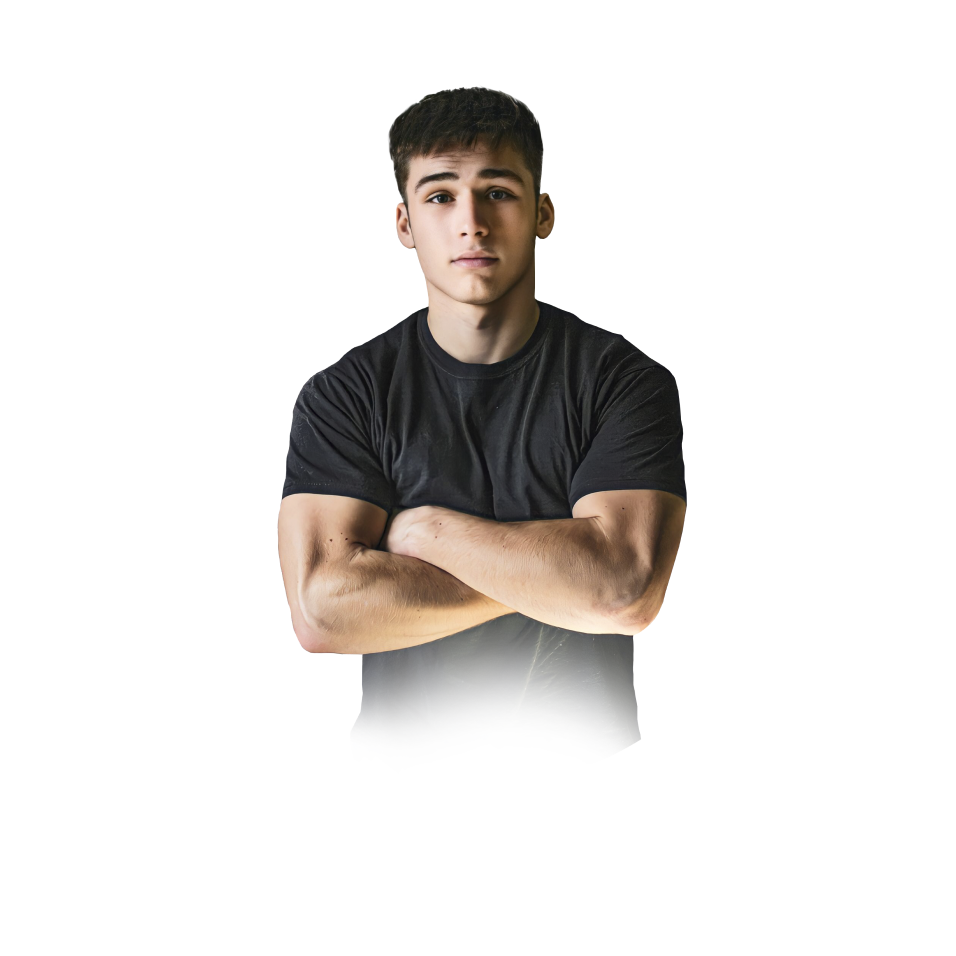
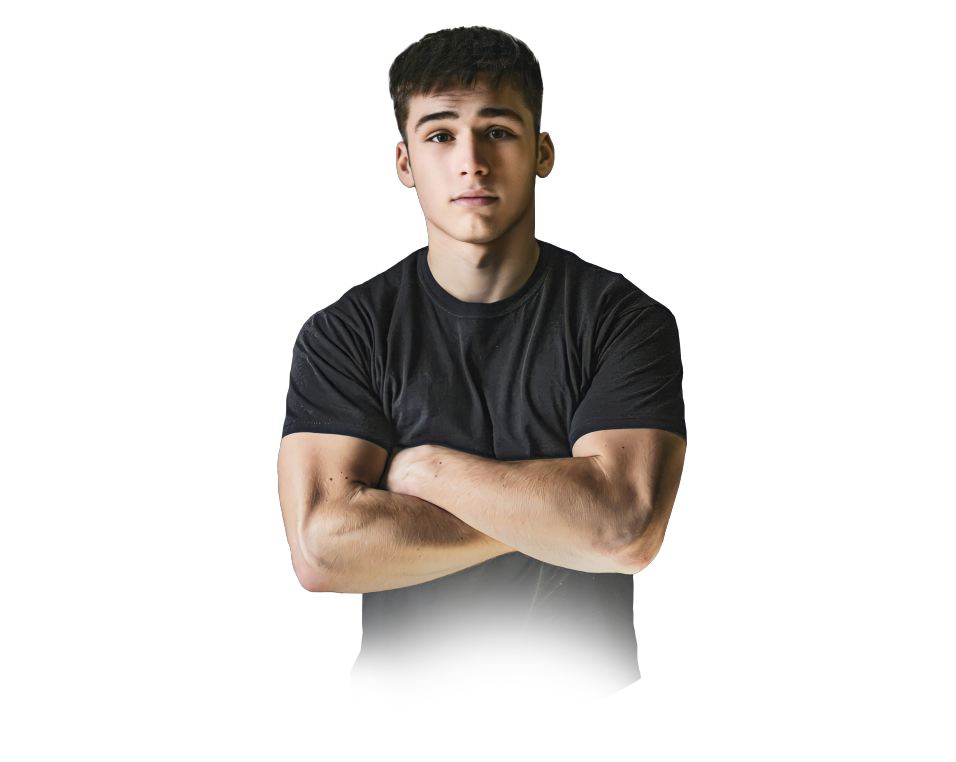
.

Changed region(s): [[0.273, 0.0302, 0.728, 0.9055], [0.5764, 0.3018, 0.6067, 0.332]]

diff --git a/src/App.vue b/src/App.vue
@@ -4,7 +4,8 @@ import Header from "@/components/Header.vue";
 
 <template>
   <Header />
-  <div id="hero" class="h-screen relative bg-primary mt-[100px]">
+  <!-- Hero Section -->
+  <div id="hero" class="h-[760px] relative bg-primary mt-[100px]">
     <img
       class="z-[2] absolute mx-auto -top-6 right-0 left-3"
       src="/hero.png"
@@ -29,8 +30,59 @@ import Header from "@/components/Header.vue";
     </div>
     dsa
   </div>
-  <div>
-    <img src="" alt="" />
+  <div class="pt-[350px] flex justify-center relative bg-primary">
+    <div class="absolute right-0 top-0 bg-primary">
+      <img class="mix-blend-screen" src="/hero_bottom.png" alt="" />
+    </div>
+    <div class="">
+      <ul class="text-[#E0E0E0] list-disc">
+        <li>СПОРТИВНИЙ БЛОГ В Tiktok ТА instagram</li>
+        <li>БЛИЗЬКО 6 РОКIВ У СПОРТI</li>
+        <li>КВАЛIФIКАЦIЯ ТРЕНЕРА ТА ДIЄТОЛОГА</li>
+        <li>Десятки гарних вIдгукIв та результатів</li>
+      </ul>
+    </div>
+  </div>
+
+  <!-- user stories -->
+  <div class="text-4xl bg-primary pt-28">
+    <div class="mb-9 text-white font-medium text-center">
+      ВПЛИВ
+      <span class="text-[#E5C140]">ТРЕНУВАНЬ</span>
+      <br />
+      ТА ЗДОРОВОГО ХАРЧУВАННЯ НА ЖИТТЯ ЛЮДИНИ
+    </div>
+    <div class="pt-20 mx-auto max-w-7xl">
+      <div id="stories" class="flex justify-center gap-x-9">
+        <div class="story">
+          <img src="/story_1.png" alt="" />
+          <div class="title">ГАРНА ФІЗИЧНА ФОРМА</div>
+          <div class="desc">
+            фізична активність і гарна форма сприяють кращому збереженню
+            енергії, покращенню когнітивних функцій і підвищенню продуктивності
+            у різних сферах життя.
+          </div>
+        </div>
+        <div class="story">
+          <img src="" alt="" />
+          <div class="title">ГАРНА ФІЗИЧНА ФОРМА</div>
+          <div class="desc">
+            фізична активність і гарна форма сприяють кращому збереженню
+            енергії, покращенню когнітивних функцій і підвищенню продуктивності
+            у різних сферах життя.
+          </div>
+        </div>
+        <div class="story">
+          <img src="" alt="" />
+          <div class="title">ГАРНА ФІЗИЧНА ФОРМА</div>
+          <div class="desc">
+            фізична активність і гарна форма сприяють кращому збереженню
+            енергії, покращенню когнітивних функцій і підвищенню продуктивності
+            у різних сферах життя.
+          </div>
+        </div>
+      </div>
+    </div>
   </div>
 </template>
 
@@ -41,4 +93,18 @@ import Header from "@/components/Header.vue";
   background-repeat: no-repeat;
   background-position: center;
 } */
+#stories {
+  .story {
+    @apply h-[380px] w-1/3 relative rounded-[44px] bg-white flex flex-col items-center;
+    img {
+      /* @apply absolute bottom-0; */
+    }
+    .title {
+      @apply text-[#18191C] text-xl  font-bold;
+    }
+    .desc {
+      @apply text-[#18191C] text-sm;
+    }
+  }
+}
 </style>
